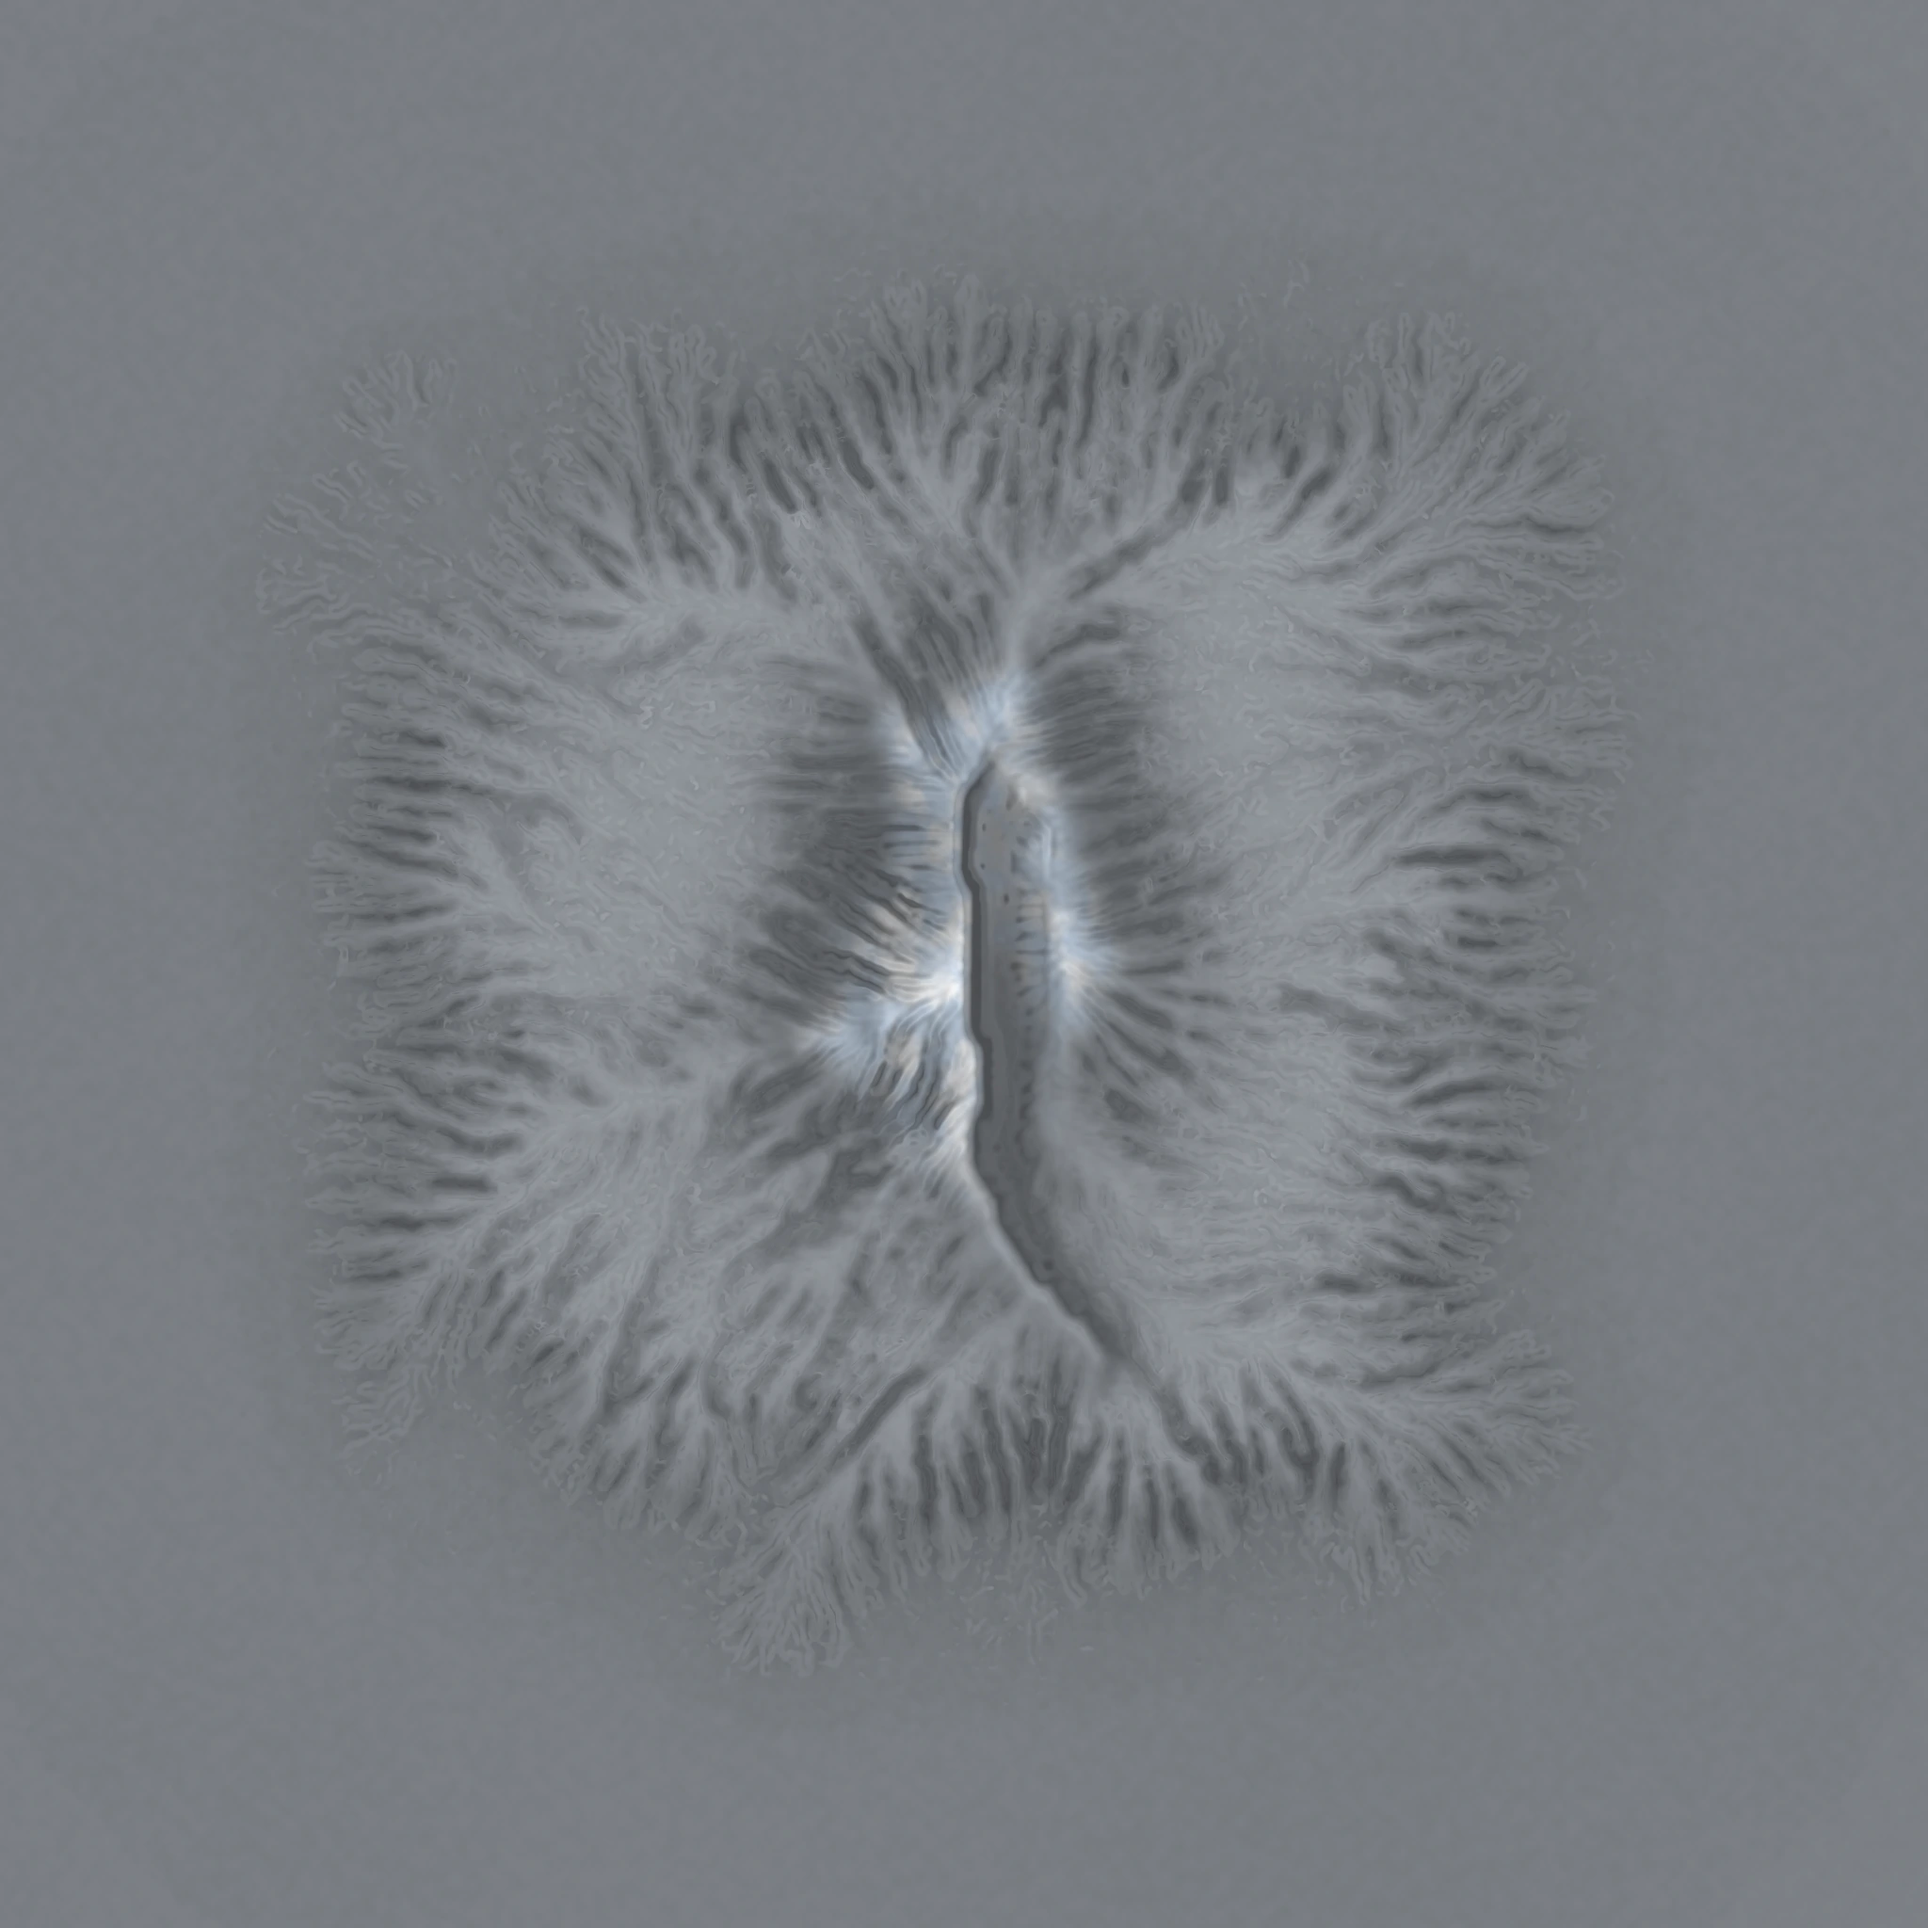
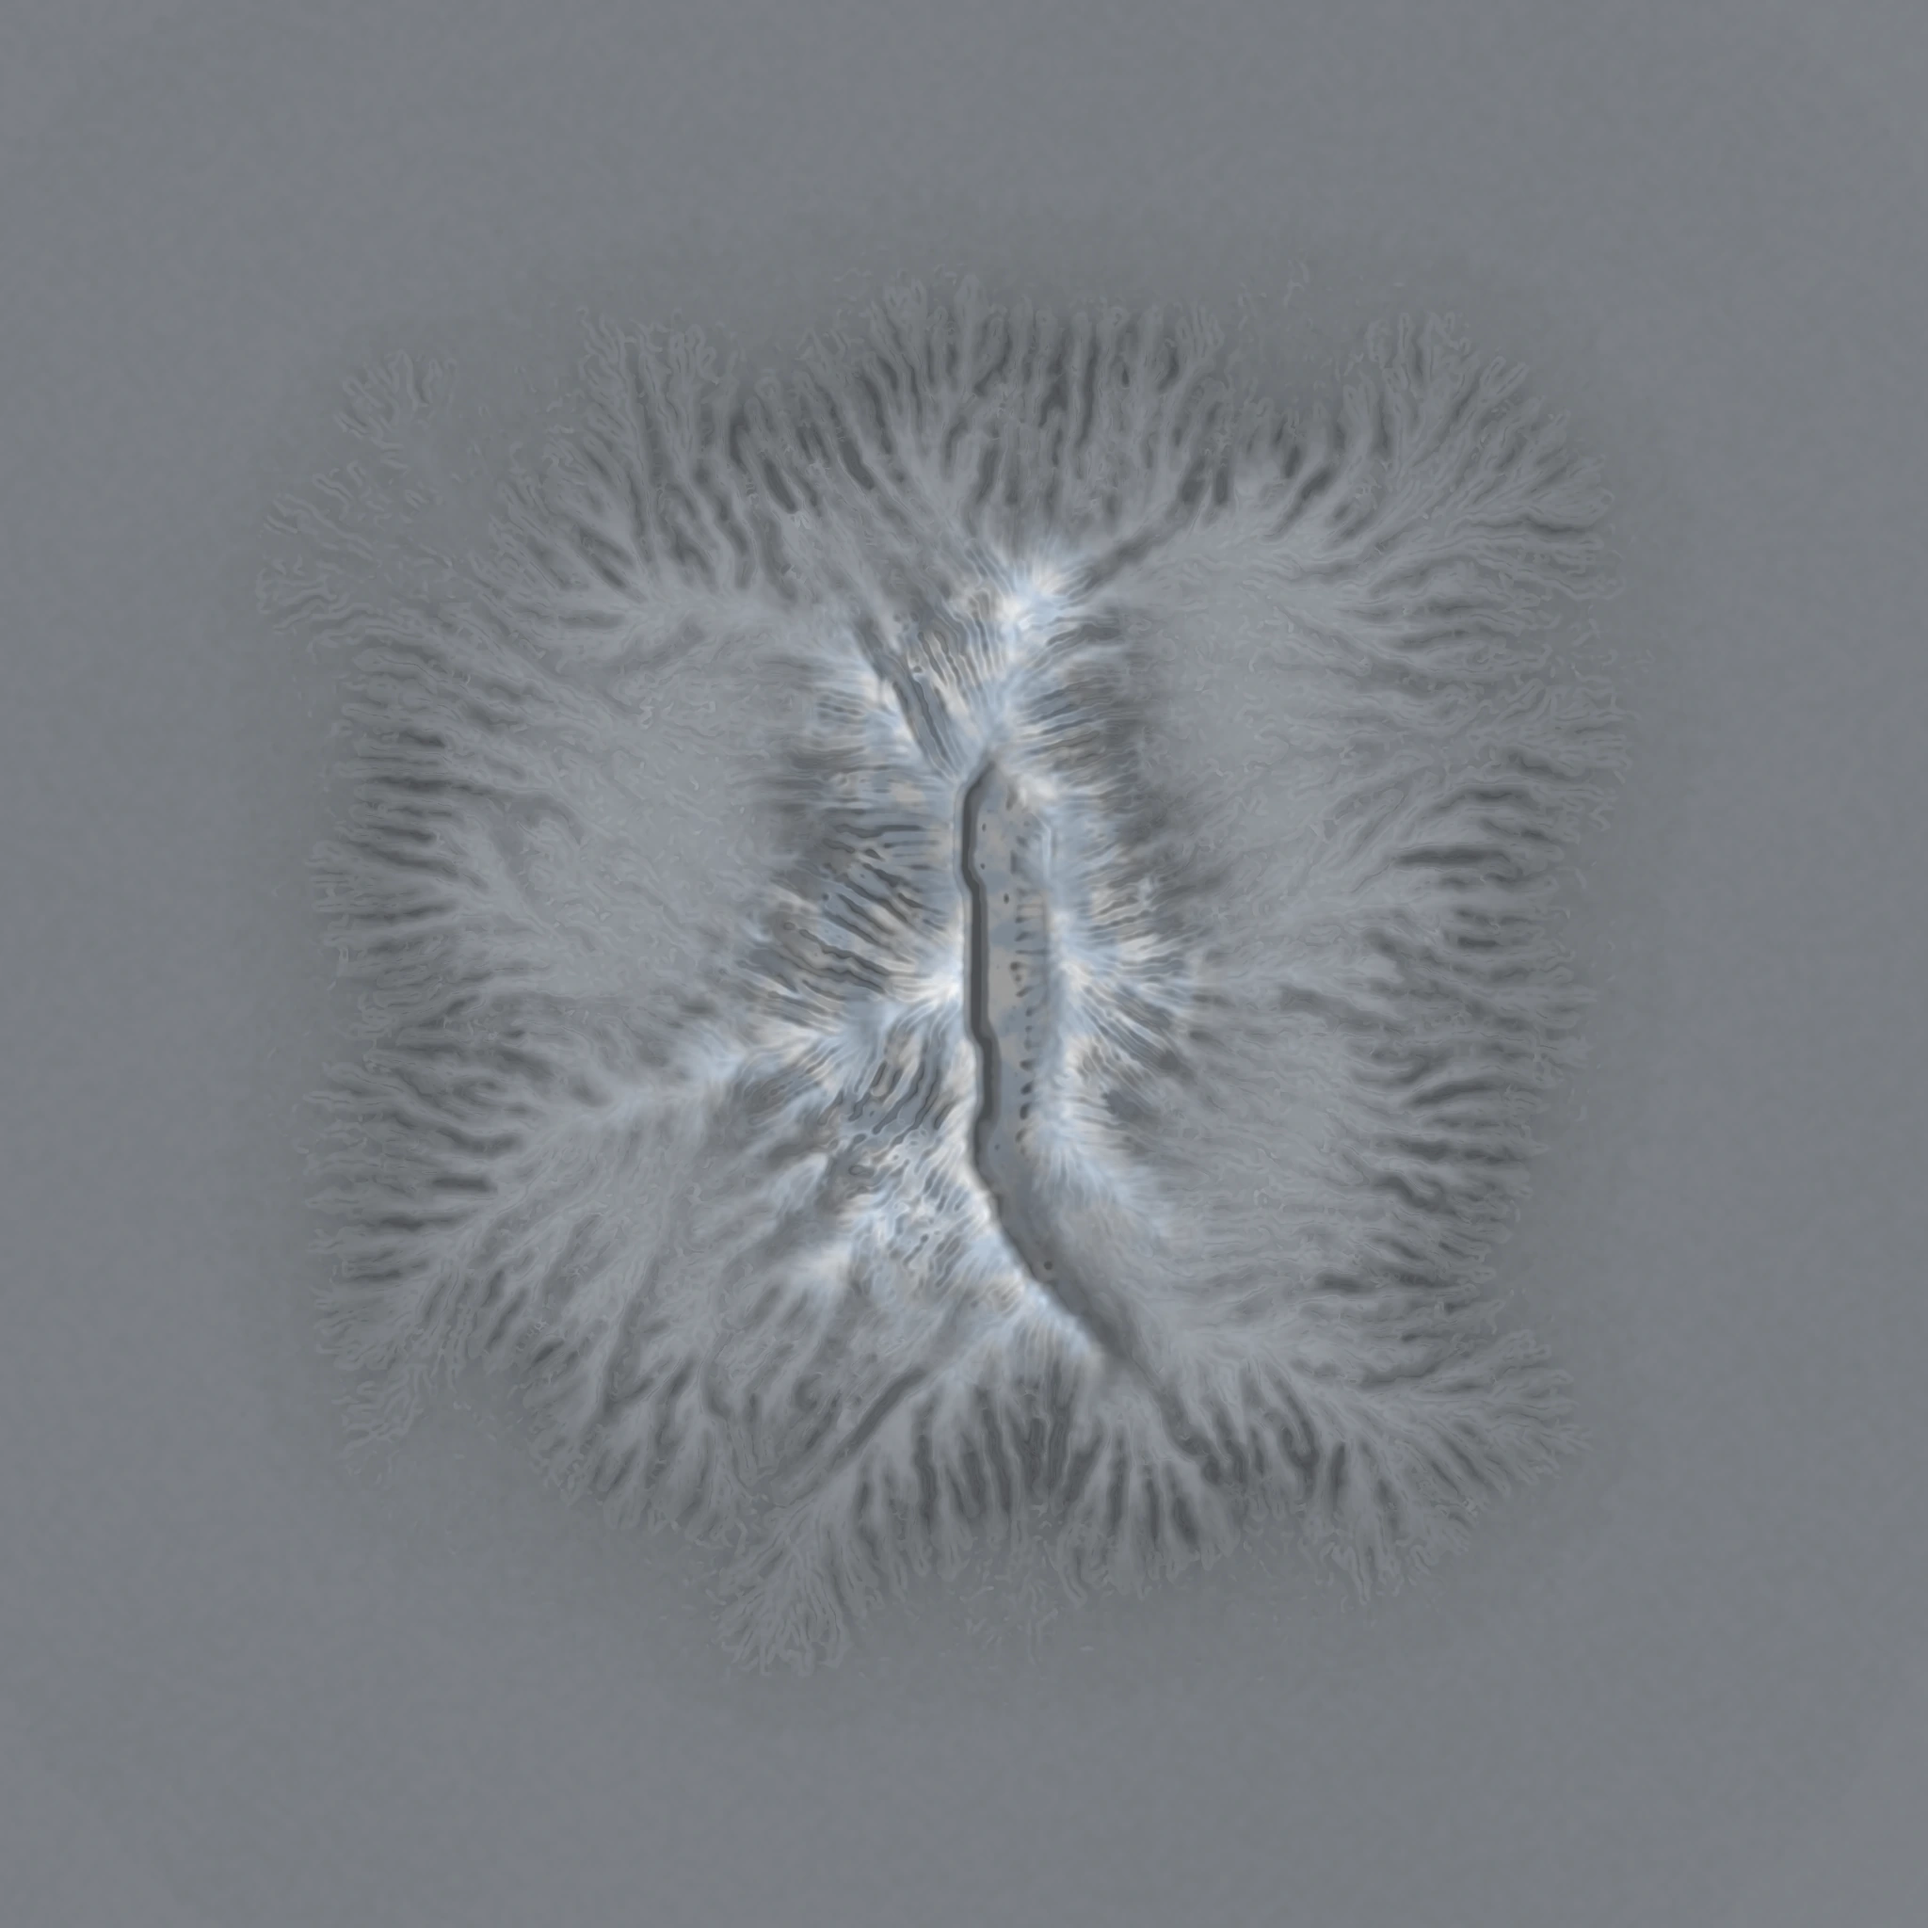
cpolar_v2 hero: new viewing angle with a real saddle, and cloud you can see
THE ANGLE. The skyline was one clean cone, and the panel measured its deepest notch at
two pixels - nothing in the outline to read. Nine rotations were rendered and judged on
their OUTLINES alone; 5.40 radians won because it has a dominant peak, a genuine saddle
and a distinct second summit. Then nine camera placements were rendered the same way to
put the peak back on the right, which turning the mountain had moved. Aim -90 with a
32-degree lens: peak decisively right, whole left field clean for the copy, right
shoulder no longer clipped by the frame edge.

WHY THERE APPEARED TO BE NO CLOUD. Measured with the cloud group switched off and on:
it was adding +56 levels to the mid slopes and EXACTLY 0.00 against the sky. White
cloud on a near-white sky cannot be seen, so all it ever did was wash pale over the
rock - it never once looked like cloud. It is blue-grey now, a little darker than the
page, brighter on top than underneath. It registers -5.3 levels against the sky where
it used to register nothing, and it bleaches the rock half as much: +29 instead of +56.

WHY THERE APPEARED TO BE NO SNOW. Two passes ago the snow line was upside down; one
pass ago the correction overshot and left about a tenth of the mountain covered, which
on a pale page is a few streaks near the top. It sits between the two now, on the upper
slopes and packed into the col.

Motion was measured too, not assumed: after thirty seconds a third of the frame has
[…]

Changed region(s): [[0.3438, 0.2812, 0.625, 0.7188]]

diff --git a/cpolar_v2/index.html b/cpolar_v2/index.html
@@ -154,6 +154,21 @@ h1{font-size:0;line-height:0;height:0;overflow:hidden}
 import * as THREE from 'three';
 import { GLTFLoader } from 'three/addons/loaders/GLTFLoader.js';
 
+const _q = new URLSearchParams(location.search);
+// 5.40 radians. Picked by rendering nine rotations and judging the OUTLINES only.
+// From here the mountain has a dominant peak, a real saddle and a distinct second
+// summit - the structure that was missing when it was one clean cone whose deepest
+// notch measured two pixels.
+const ROT = parseFloat(_q.get('rot') ?? '5.40');
+// Placement picked the same way as the rotation: rendered as a sheet and judged, not
+// guessed. Aiming LEFT of the peak throws it right on screen, so -90 sets it decisively
+// on the right and leaves the whole left field clean for the copy.
+const AIMX = parseFloat(_q.get('aimx') ?? '-90');
+// A much shorter lens than the 20 it was on. The mass comes down, pale air opens up
+// around the silhouette - which is what an outline needs if it is to read as a shape -
+// and at 32 the right shoulder stops being clipped by the frame edge.
+const FOV = parseFloat(_q.get('fov') ?? '32');
+
 const canvas = document.getElementById('scene');
 const renderer = new THREE.WebGLRenderer({ canvas, antialias:true, alpha:true });
 renderer.setPixelRatio(Math.min(devicePixelRatio, 1.75));
@@ -181,9 +196,9 @@ scene.fog = new THREE.Fog(0xe6ecf1, 300, 820);
 //   - closer, on a longer lens, so the base runs off both edges of the screen.
 //   - aimed to the LEFT of the summit line, which throws the peak to the RIGHT of
 //     frame and leaves the left half clear for the copy.
-const camera = new THREE.PerspectiveCamera(20, innerWidth/innerHeight, 1, 5000);
+const camera = new THREE.PerspectiveCamera(FOV, innerWidth/innerHeight, 1, 5000);
 camera.position.set(-244, 26, 372);
-const AIM = new THREE.Vector3(-30, 34, -40);
+const AIM = new THREE.Vector3(AIMX, 34, -40);
 camera.lookAt(AIM);
 
 // light: a hard raking key from the left so one face is lit and the other falls into
@@ -353,8 +368,17 @@ function cloudTex(soft){
     const cxp = 80 + Math.random()*(W-160), cyp = H/2 + (Math.random()-0.5)*70;
     const r = 40 + Math.random()*90;
     const gr = x.createRadialGradient(cxp,cyp,0,cxp,cyp,r);
-    gr.addColorStop(0, 'rgba(255,255,255,'+(soft?0.22:0.38)+')');
-    gr.addColorStop(1, 'rgba(255,255,255,0)');
+    // Measured: with white blobs the cloud added +56 levels on the mid slopes and
+    // EXACTLY 0.00 against the sky. White on a near-white sky cannot be seen, so the
+    // cloud only ever showed as a pale wash on the rock and never as cloud. It has to
+    // be a little DARKER than the page to exist against the sky at all. Lit from above,
+    // so the top of each blob is paler and the underside carries the blue-grey.
+    const lift = 1 - Math.min(1, Math.max(0, (cyp - (H/2 - 60)) / 130));
+    const cr = Math.round(198 + 44 * lift);
+    const cg = Math.round(211 + 38 * lift);
+    const cb = Math.round(224 + 29 * lift);
+    gr.addColorStop(0, 'rgba('+cr+','+cg+','+cb+','+(soft?0.26:0.44)+')');
+    gr.addColorStop(1, 'rgba('+cr+','+cg+','+cb+',0)');
     x.fillStyle = gr; x.beginPath(); x.arc(cxp,cyp,r,0,7); x.fill();
   }
   // Then fade the alpha out RADIALLY. It was done per-edge before - one falloff from
@@ -388,34 +412,45 @@ const clouds = new THREE.Group();
 // the mountain's foot is roughly 285 away, where the frame is ~100 units tall and the
 // foot itself spans about 40 of them.
 const BANKS = [
+  // Cloud only READS where there is something dark behind it. Lying it across the foot
+  // put it over pale ground, where it did nothing but wash the foreground out - and
+  // when that wash was cut back, the cloud went with it and the scene lost its weather
+  // entirely. So the weight moves UP, onto the mid slopes and around the peak, where
+  // there is dark rock for it to show against. The foot keeps only a thin veil.
+  //
+  // Depth matters as much as height: a bank must sit between the camera at z=372 and
+  // the mountain's foot at z=185 to cross anything. Anything further back is hidden by
+  // the mountain, because the cloud material stops writing depth but still tests it.
+
   // behind the summit, so the peak has something to stand against instead of bare sky
   {w:2200,h:240, x:  40, y: 44, z:-620, o:.46, d:-.009, soft:false},
   {w:1700,h:200, x:-120, y: 16, z:-420, o:.36, d:.018, soft:true },
-  // the sea, lying across the foot of the mountain and nothing above it
-  // These two were lifting the nearest slope to brightness 183 while the farthest mass
-  // sat at 97 - front paler than back, which is distance running backwards, and the
-  // main reason the picture read flat. Both agents had to come down; halving the cloud
-  // alone still left the foot near 163.
-  {w:1600,h: 78, x:  60, y:-30, z: 210, o:.34, d:.030, soft:false},
-  {w:2000,h:105, x:-190, y:-34, z:  50, o:.30, d:.038, soft:false},
-  {w:2600,h:140, x: 180, y:-20, z:-140, o:.70, d:.046, soft:true },
-  {w:3000,h:170, x:-260, y:-26, z:-330, o:.55, d:.054, soft:true },
-  // A thin collar that actually crosses the peak. Every other bank in front of the
-  // mountain sits at or below its foot, and everything at mid-height is BEHIND the
-  // mountain and hidden by it - the cloud material stops writing depth but still tests
-  // it. 34 units tall draws a collar of about 165px; 70 would be a slab across nearly
-  // 40% of a frame whose whole rule is restraint.
-  {w:1500,h: 34, x: -40, y: 40, z: 120, o:.34, d:.021, soft:true },
+
+  // the weather, crossing the mountain itself
+  {w:1500,h: 52, x: -40, y: 44, z: 120, o:.62, d:.021, soft:true },
+  {w:1800,h: 62, x: 180, y: 26, z: 175, o:.58, d:.028, soft:true },
+  {w:2000,h: 74, x:-120, y:  6, z: 225, o:.52, d:.034, soft:false},
+
+  // a thin veil at the foot only - this is the one that used to bleach the foreground
+  {w:1600,h: 78, x:  60, y:-30, z: 210, o:.26, d:.040, soft:false},
+  {w:2000,h:105, x:-190, y:-34, z:  50, o:.24, d:.046, soft:false},
+  {w:2600,h:140, x: 180, y:-20, z:-140, o:.42, d:.052, soft:true },
 ];
 BANKS.forEach(b => {
   const m = new THREE.Mesh(
     new THREE.PlaneGeometry(b.w, b.h),
     new THREE.MeshBasicMaterial({ map: cloudTex(b.soft), transparent:true, depthWrite:false, opacity:b.o })
   );
-  m.position.set(b.x, b.y, b.z); m.userData.d = b.d * 60; m.userData.x0 = b.x;
+  m.position.set(b.x, b.y, b.z); // x1.8 on top of the per-second conversion. Measured: at the old rate the fastest bank
+  // crossed a quarter of the mountain in thirty seconds, which is true to life and far
+  // too slow to be noticed by someone who has just landed on the page.
+  m.userData.d = b.d * 60 * 1.8; m.userData.x0 = b.x;
   m.userData.ph = Math.random() * 6.283; m.userData.o = b.o;
   clouds.add(m);
 });
+// ?clouds=0 hides them, so their real contribution can be MEASURED rather than argued
+// about. "I cannot see any cloud" is a testable claim and this is how it gets tested.
+clouds.visible = _q.get('clouds') !== '0';
 scene.add(clouds);
 
 // smooth scroll + the page rail
@@ -445,7 +480,10 @@ let lastT = 0;
   const t = clock.getElapsedTime();
   const dt = Math.min(t - lastT, 0.1); lastT = t;
   if (terrain) {
-    terrain.rotation.y = 0.06 + Math.sin(t * 0.045) * 0.012;   // a slow breath, not a spin
+    // ?rot= turns the mountain so a different face is presented. The skyline is one
+    // clean cone from the angle it was built at; other angles put a ridge and a col in
+    // the outline. Swept rather than guessed at - see _sweep_angle.mjs.
+    terrain.rotation.y = ROT + Math.sin(t * 0.045) * 0.012;   // a slow breath, not a spin
     terrain.position.y = -sy * 0.05;
   }
   // The drift used to advance once per FRAME, so it ran at double speed on a 120Hz
@@ -463,7 +501,8 @@ let lastT = 0;
 })();
 
 // harness hook: ?p= pins the scroll for a screenshot
-const p = new URLSearchParams(location.search).get('p');
+const q = new URLSearchParams(location.search);
+const p = q.get('p');
 if (p !== null) { lenis.destroy(); sy = parseFloat(p) * innerHeight; }
 </script>
 </body>
